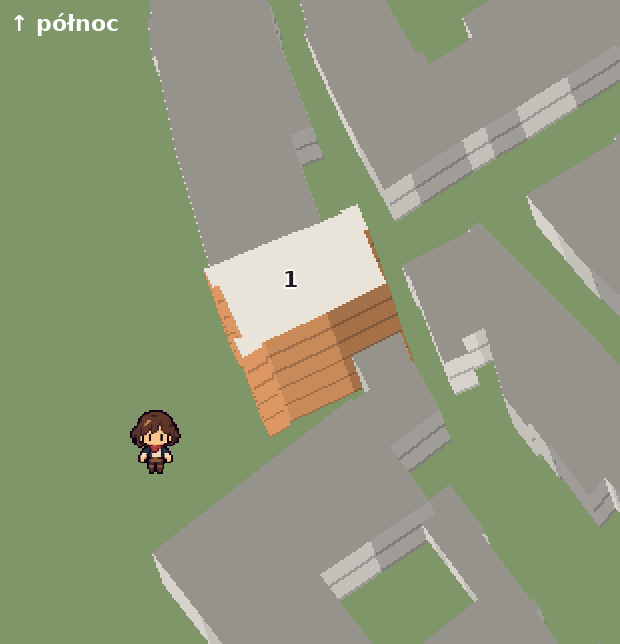
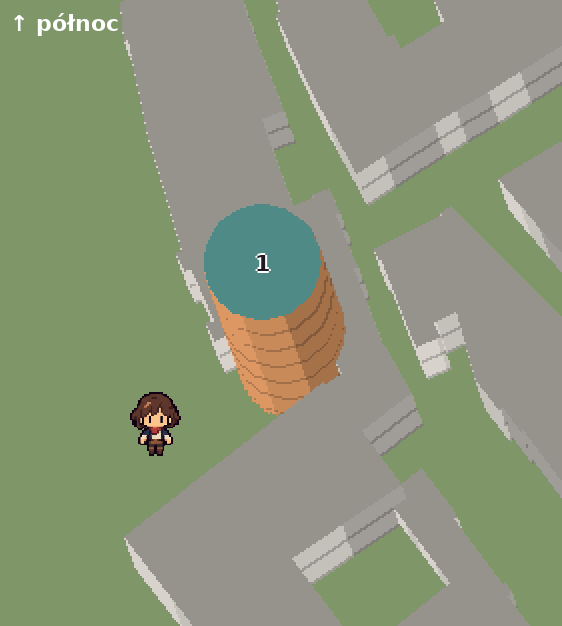
Zamówienie 19: Brama Krakowska jako steampunkowa rotunda (okrągły, wyższy szkielet; prawdziwa brama stałaby bokiem do widza)
Claude-Session: https://claude.ai/code/session_0186B56UngdyZ3nbG8b67Ype

diff --git a/scripts/zabytki-szkielety.py b/scripts/zabytki-szkielety.py
@@ -17,8 +17,11 @@ PX_M = 1.92 * 2  # px obrazu na metr
 OUT = 'docs/paczka-dla-artysty/19_zabytki_szkielety'
 
 ZABYTKI = [
-    {'id': 'brama_krakowska', 'nazwa': 'Brama Krakowska', 'czesci': [
-        {'nr': 1, 'osm': 'Brama Krakowska', 'wysokosc_m': 30, 'sciana': '#c98a5a', 'dach': '#e8e4da', 'opis': 'gotycka wieża bramna z cegły, barokowy hełm (biały/miedziany), zegar'},
+    # Właściciel 7.10.2026: prawdziwa brama stoi na mapie skosem (przejazd z NE na SW), więc od strony widza byłaby bokiem
+    # i nie dałoby się poznać, co to. Zamiast niej steampunkowa rotunda w tym miejscu: okrągła (z każdej strony taka sama),
+    # wyższa, z elementami Bramy Krakowskiej.
+    {'id': 'brama_krakowska', 'nazwa': 'Brama Krakowska – steampunkowa rotunda', 'czesci': [
+        {'nr': 1, 'osm': 'Brama Krakowska', 'kolo_m': 15, 'wysokosc_m': 36, 'sciana': '#c98a5a', 'dach': '#4f8a86', 'opis': 'okrągła rotunda: dół z czerwonej cegły z przejazdem od południa, wyżej biały bęben z zegarem, miedziany hełm z latarnią'},
     ]},
     {'id': 'nowy_ratusz', 'nazwa': 'Nowy Ratusz (Urząd Miasta, pl. Łokietka 1)', 'czesci': [
         {'nr': 1, 'osm': 'Urząd Miasta Lublin', 'pietra': 4.5, 'sciana': '#e3c77a', 'dach': '#a8483a', 'opis': 'klasycystyczny gmach, żółte ściany, czerwony dach czterospadowy'},
@@ -55,6 +58,13 @@ def wczytaj():
         lv = p.get('building:levels')
         wszystkie.append((r, float(lv) if lv and lv.replace('.', '').isdigit() else 2))
         if p.get('name') in nazwy and p['name'] not in znalezione: znalezione[p['name']] = r
+    # Części okrągłe (rotunda): koło o średnicy kolo_m metrów w środku obrysu z OSM.
+    for z in ZABYTKI:
+        for c in z['czesci']:
+            if 'kolo_m' in c and c['osm'] in znalezione:
+                r = znalezione[c['osm']]
+                cx = sum(x for x, _ in r) / len(r); cy = sum(y for _, y in r) / len(r); R = c['kolo_m'] / 2 * PX_M
+                znalezione[c['osm']] = [(cx + R * math.cos(t * math.pi / 24), cy + R * math.sin(t * math.pi / 24)) for t in range(48)]
     return znalezione, wszystkie
 
 def maska(r, x0, y0, W, H):

diff --git a/docs/paczka-dla-artysty/ZAMOWIENIE_19_brama_ratusz_katedra.md b/docs/paczka-dla-artysty/ZAMOWIENIE_19_brama_ratusz_katedra.md
@@ -14,13 +14,20 @@ Wszystkie pliki są w folderze `19_zabytki_szkielety/`.
 
 **Rzut gry:** dachy widać z góry na obrysie, a ściany idą w dół (na południe) i lekko w prawo, jak u zamku. Światło z lewej-góry, obrys #1e1a24, grube kwadratowe piksele, 3–5 odcieni na kolor, bez gradientów, bez napisów.
 
-## 1. Brama Krakowska (`brama_krakowska_*`)
+## 1. Brama Krakowska → steampunkowa rotunda (`brama_krakowska_*`, poprawka 7.10)
 
-- Jedna część: **gotycka wieża bramna z czerwonej cegły**, na górze **biały barokowy hełm** z latarnią i iglicą, na ścianie zegar.
-- W szkielecie wieża ma wysokość ok. 30 m (ściany 40 px w rzucie, ściśnięte jak donżon zamku).
-- **Przejazd bramny**: przez bramę biegnie ulica (z północnego wschodu na południowy zachód). Na widocznej ścianie namaluj **ostrołukowy przejazd** (ciemne wnętrze łuku), żeby było widać, że to brama.
-- Lekki steampunk: **mosiężna tarcza zegara z widocznymi zębatkami** zamiast zwykłego zegara, 1–2 miedziane rurki wzdłuż muru.
-- Zdjęcia: https://www.wikidata.org/wiki/Q9663386 (link do Wikimedia Commons na stronie).
+**Dziękujemy za próbkę: styl jest bardzo dobry** (cegła, biały bęben, miedziany hełm, zegar). Problem jest w orientacji. Prawdziwa brama stoi na mapie skosem, a przejazd biegnie z północnego wschodu na południowy zachód. Wierna kopia byłaby więc od strony widza widoczna bokiem i nie dałoby się poznać, co to.
+
+**Decyzja właściciela:** zamiast wiernej bramy stawiamy w tym miejscu **steampunkową rotundę**: okrągłą (z każdej strony wygląda tak samo), **wyższą**, z elementami Bramy Krakowskiej. Nowy szkielet jest okrągły (`brama_krakowska_szkielet_x4.png`, średnica ok. 15 m, ściany 50 px w rzucie).
+
+Co ma mieć rotunda (od dołu):
+
+1. **Dół z czerwonej cegły** jak w próbce, z gotyckimi blankami w połowie wysokości. **Przejazd (ostrołukowa brama) od południa**, czyli na stronie widocznej dla gracza.
+2. **Biały bęben** (z próbki) z **dużym mosiężnym zegarem z widocznymi zębatkami**, skierowanym na południe.
+3. **Miedziany hełm z latarnią** (zielona patyna, jak w próbce), na szczycie mosiężna iglica albo kula.
+4. Steampunk: **mosiężne obręcze** opasujące wieżę na 2–3 wysokościach, **miedziane rury** pnące się po murze i wychodzące nad dach, **mały balkon obserwacyjny z lunetą** pod bębnem, kilka nitów i zaworów. Pary nie rysuj, robi ją program.
+
+Uwagi do próbki, które dalej obowiązują: przejazd ostrołukowy (nie półokrągły), rury mosiężne/miedziane (bez zielonej patyny na rurach), światło z lewej-góry.
 
 ## 2. Nowy Ratusz (`nowy_ratusz_*`)
 
@@ -58,8 +65,8 @@ Na dachu katedry, we wschodniej części, stoi **cewka Tesli**. Miejsce zaznaczy
 ```
 Repaint this block-out as a detailed pixel art building for a top-down RPG.
 Keep EXACTLY the same silhouette, size, position and perspective: roofs seen from above, walls visible below the roofs, leaning slightly to the right. Do not move or resize anything. Keep the flat magenta background #FF00FF.
-This is KRAKOW GATE in Lublin, Poland (Brama Krakowska), see the attached photos:
-part 1 – a gothic red-brick gate tower with a white baroque helmet roof, a pointed archway passage through it, a brass clock face with visible gears.
+This is a STEAMPUNK ROTUNDA inspired by the Krakow Gate in Lublin (Brama Krakowska), see the attached photos:
+part 1 – a tall round tower: red-brick lower part with gothic crenellations and a pointed archway passage facing south (towards the viewer), a white round drum above with a big brass clock with visible gears, a green-patina copper helmet roof with a lantern and a brass spire; brass rings around the tower, copper pipes climbing the walls, a small observation balcony with a brass telescope.
 Pixel art: chunky square pixels, 3-5 shades per colour, 1-pixel dark outline #1e1a24, light from the top-left, no anti-aliasing, no gradients, no text.
 Very light steampunk touch: brass clockwork, a few copper pipes.
 ```
@@ -75,7 +82,7 @@ Solid flat background pure magenta #FF00FF, no ground, no shadow.
 
 ## Kolejność
 
-1. Brama Krakowska (do akceptacji).
+1. Brama Krakowska jako steampunkowa rotunda (do akceptacji, na nowym okrągłym szkielecie).
 2. Nowy Ratusz.
 3. Archikatedra z Wieżą Trynitarską i osobno cewka Tesli.
 
